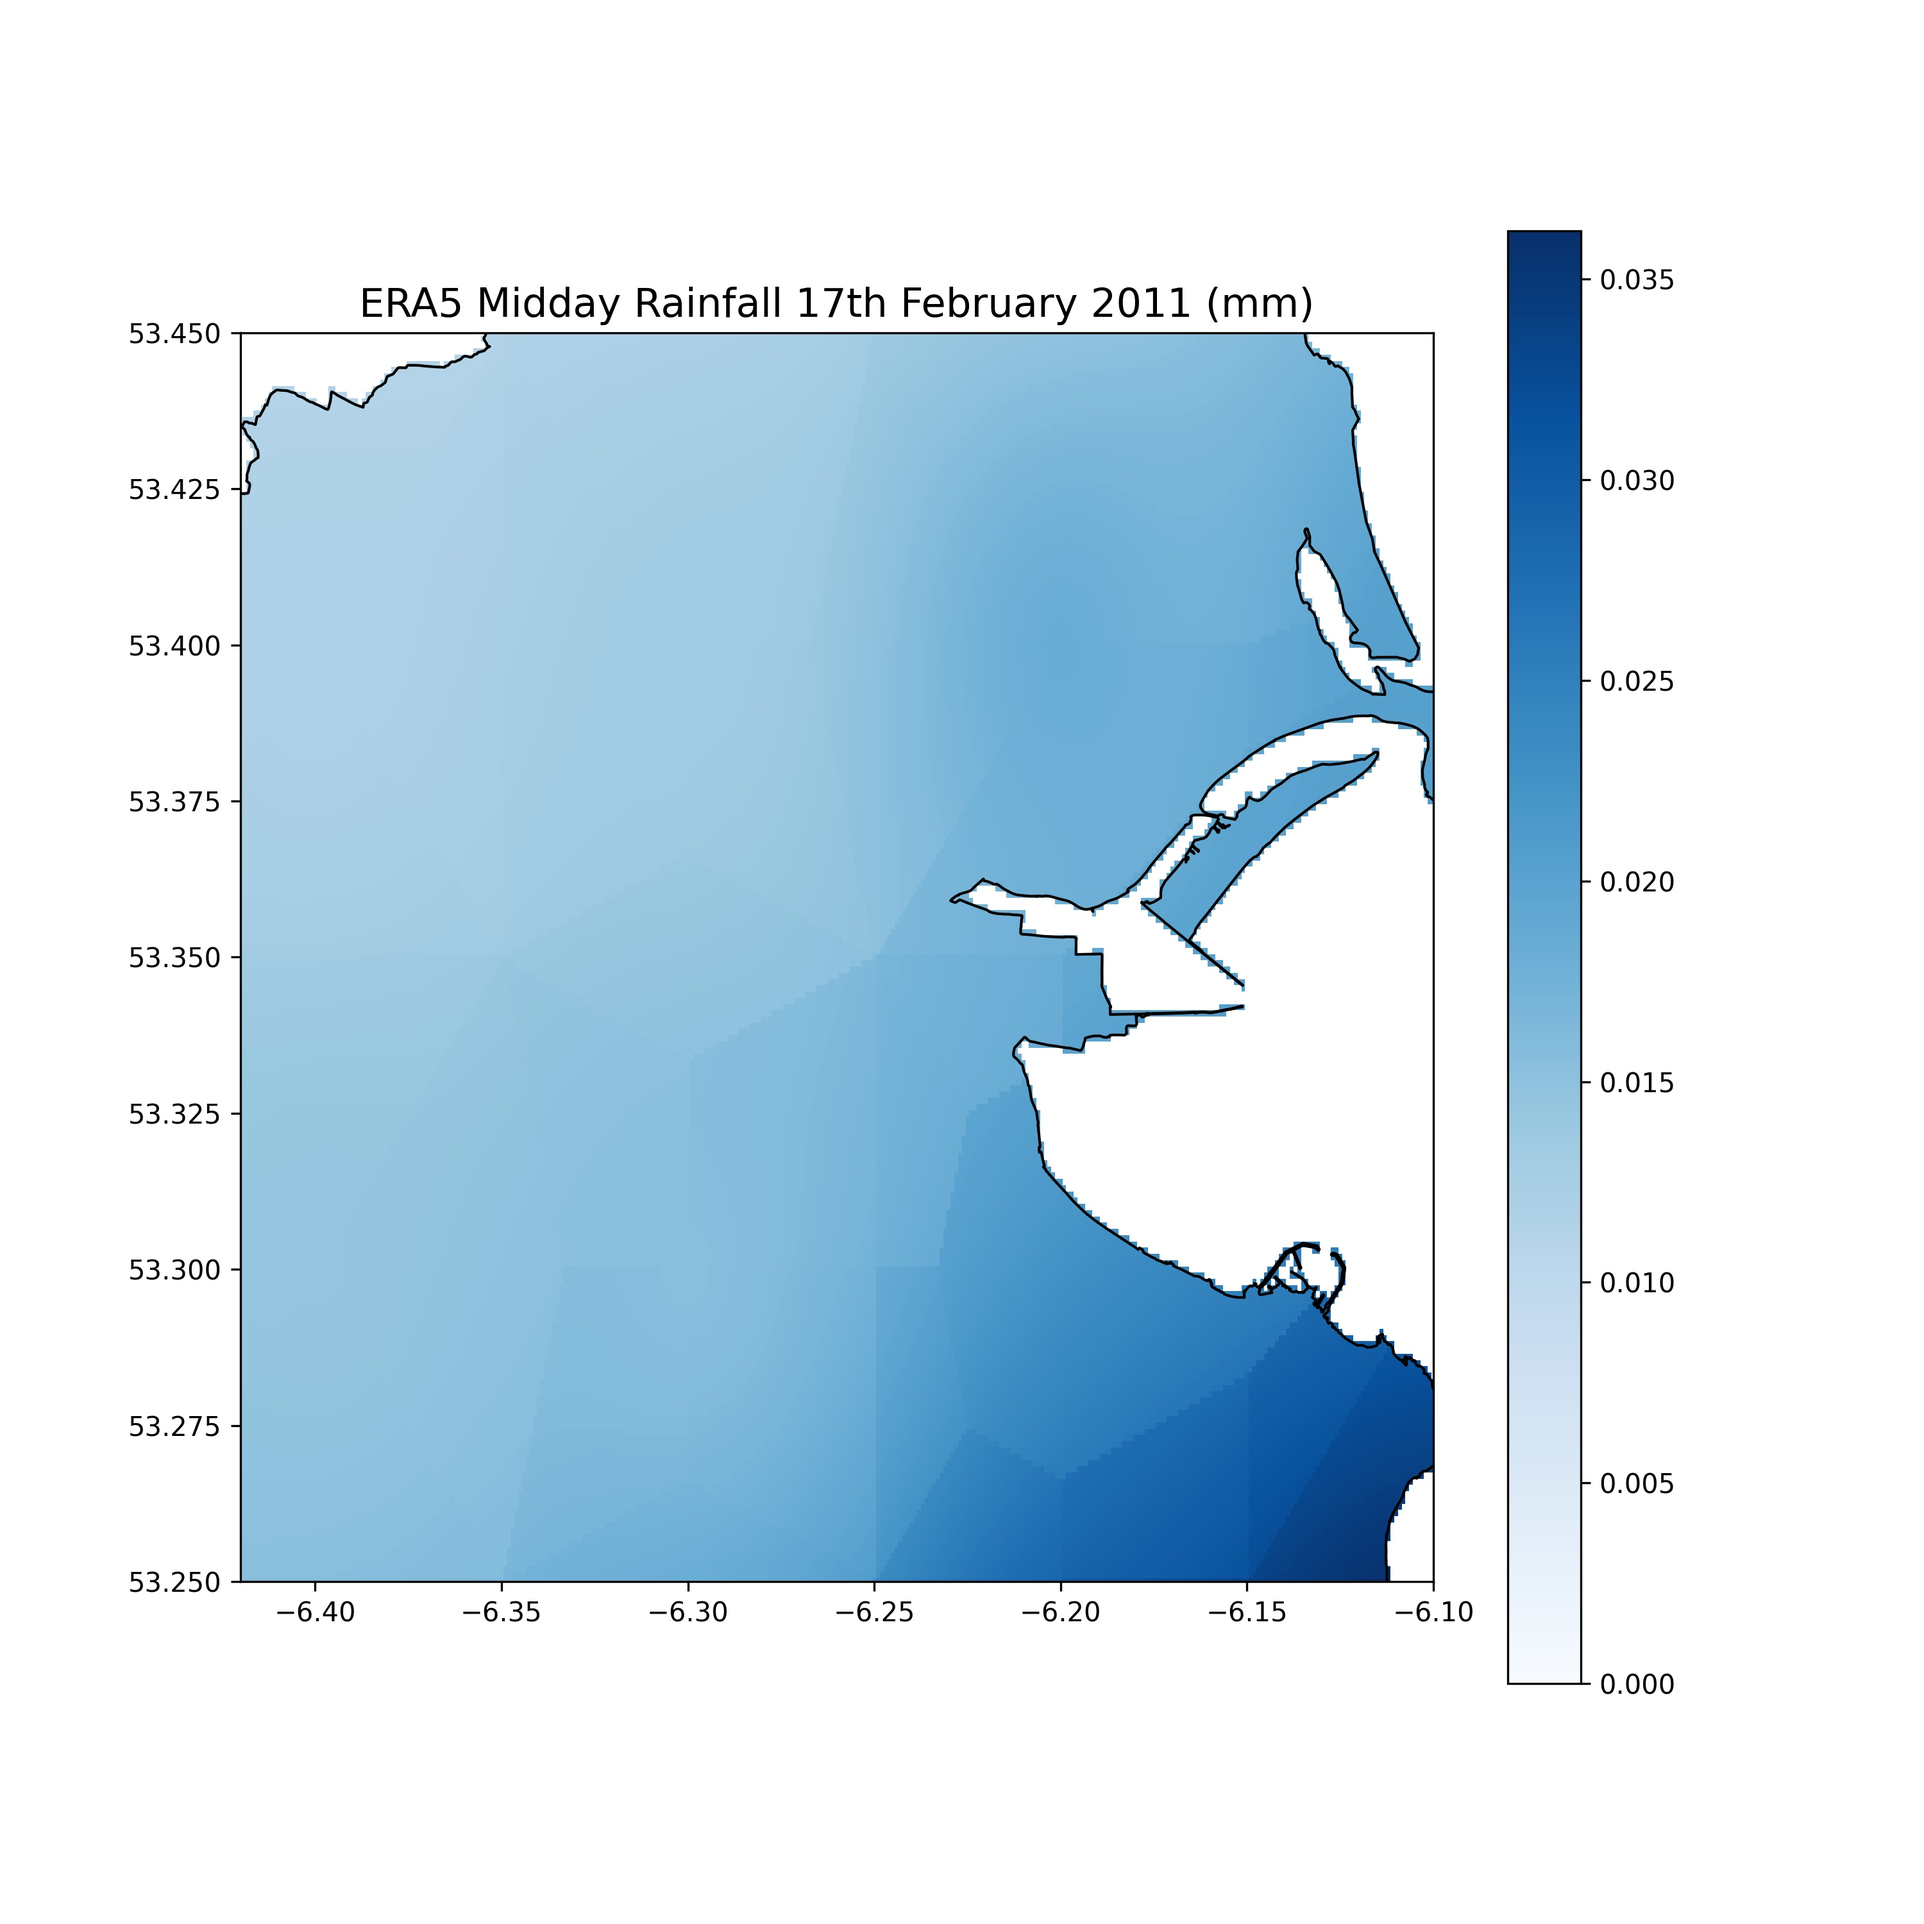
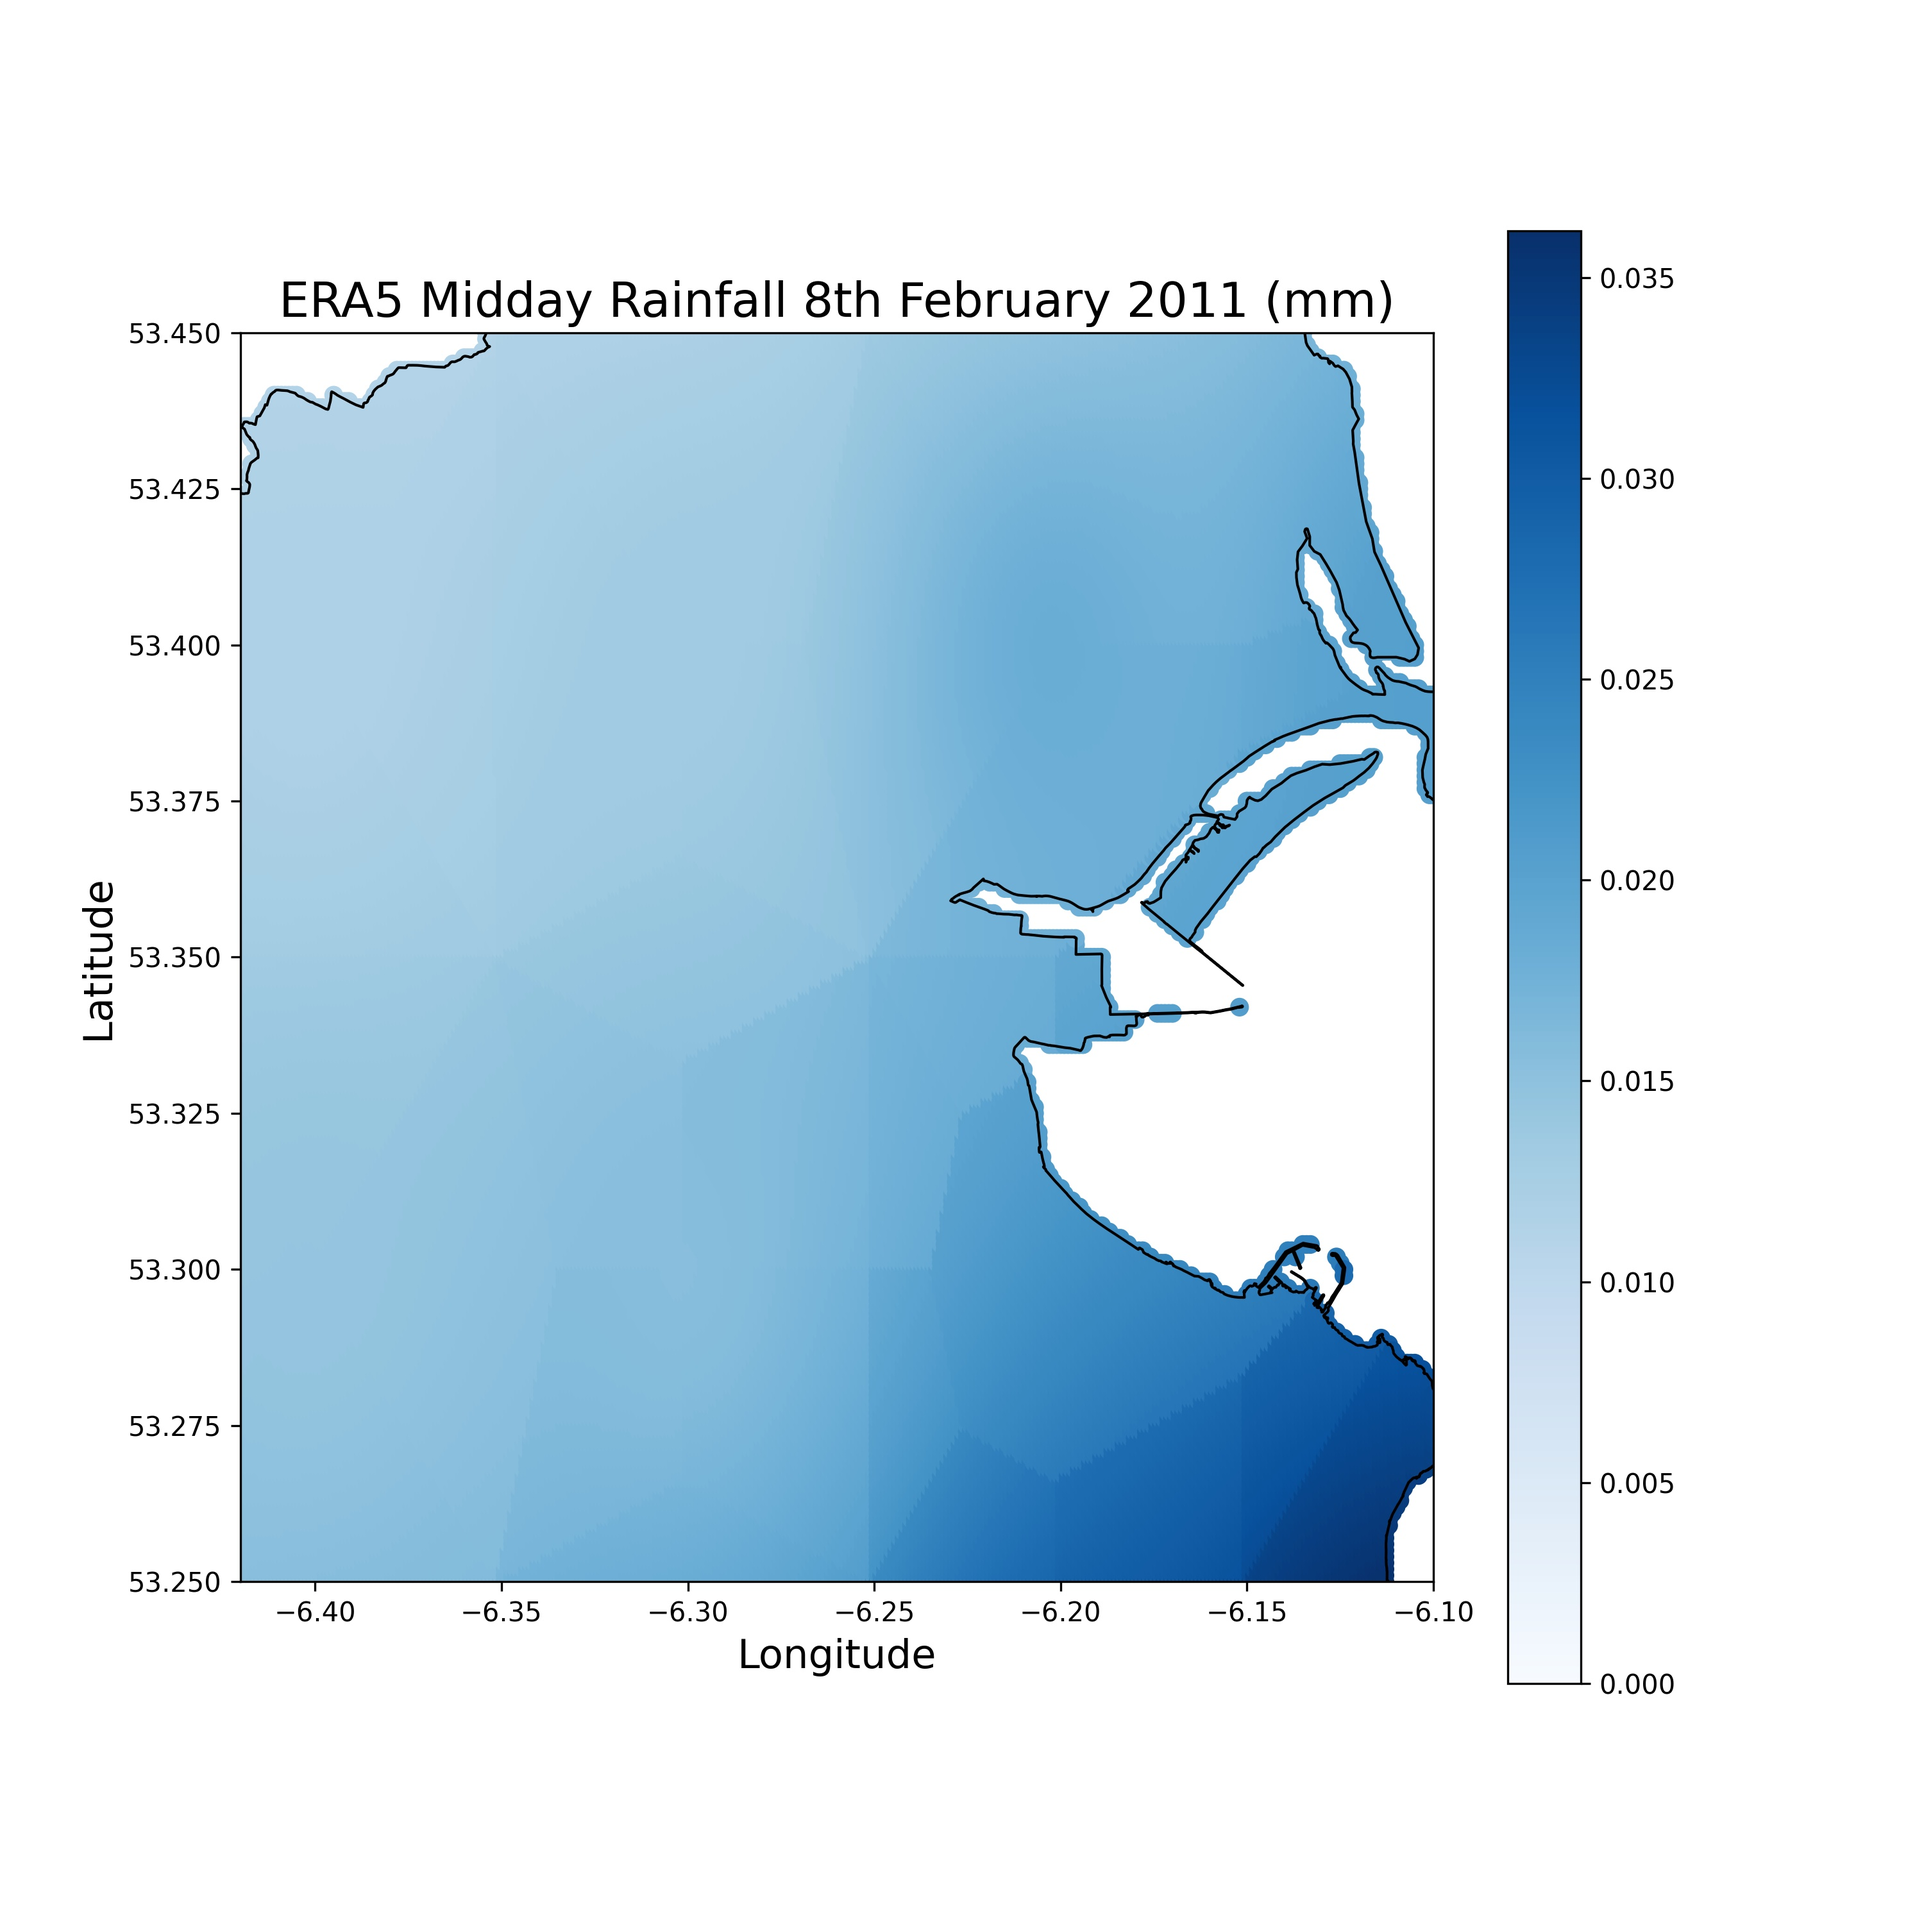
made some plots, created code to generate additional elevation points that isn't working correctly

diff --git a/src/generate_instance/simple_instance.py b/src/generate_instance/simple_instance.py
@@ -19,17 +19,26 @@ import src.generate_tsplib.generate_tsplib as tsp
 # In[1]
 
 
+# Extra Elevation points
+ds1 = pd.read_pickle("data/elevation_matrices/coords1.pkl")
+ds2 = pd.read_pickle("data/elevation_matrices/coords2.pkl")
+ds3 = pd.read_pickle("data/elevation_matrices/coords3.pkl")
+ds1 = ds1.append(ds2)
+ds1 = ds1.append(ds2)
+ds1.columns = ["Long", "Lat", "Elev"]
+
 # Scat site testing data
 ds = pd.read_pickle("data/scats_sites_with_elev.pkl")
 ds = ds.loc[:, "Lat":"Elev"]
+ds = ds.append(ds1)
 
 # Clean data up a little
 ds = ds.drop(ds[ds['Long']==0].index)
 ds = ds.drop(ds[ds['Lat']==0].index)
-ds = ds.drop(ds[ds['Long']>-6.08442].index)
-ds = ds.drop(ds[ds['Long']<-6.47592].index)
-ds = ds.drop(ds[ds['Lat']>53.45976].index)
-ds = ds.drop(ds[ds['Lat']<53.22938].index)
+ds = ds.drop(ds[ds['Long']>-6].index)
+ds = ds.drop(ds[ds['Long']<-6.5].index)
+ds = ds.drop(ds[ds['Lat']>53.5].index)
+ds = ds.drop(ds[ds['Lat']<53.1].index)
 ds = ds[["Long", "Lat", "Elev"]]
 
 # round values to grid values
@@ -43,7 +52,7 @@ lat_b = (53.1, 53.5)
 # Step size
 h = 0.0001
 
-n, depot, traffic, rain = "1000", "centre", "weekday_offpeak", "heavy"
+domain, n, depot, traffic, rain = "dublin_centre", "20", "centre", "weekday_offpeak", "mild"
 
 def create_instance(domain, n, depot, traffic, rain):
 
@@ -84,7 +93,7 @@ def create_instance(domain, n, depot, traffic, rain):
     dublin.read_weather(filename="data/weather_matrices/{}.pkl".format(rain))
     dublin.compute_weather_correction()
     dublin.read_skin_temp(filename="data/weather_matrices/Skin_temperature_averages.pkl")
-
+    np.where(dublin.x == 53.3488)
     dublin.compute_cost(method="copert with meet")
     np.set_printoptions(suppress=True)
 
@@ -182,8 +191,6 @@ line_geom = dublin.geom_matrix.values.flatten()
 costs = dublin.cost_matrix.values.flatten()[dublin.cost_matrix.values.flatten() != 0]
 line_geoms = dublin.geom_matrix.values.flatten()[dublin.geom_matrix.values.flatten() != 0]
 
-costs.shape
-
 dublin.stop_percentages_matrix.values.flatten()[dublin.stop_percentages_matrix.values.flatten() != 0].shape
 line_gdf = gpd.GeoDataFrame(data=costs, geometry=line_geoms, crs={'init' : 'epsg:4326'})
 
@@ -191,14 +198,22 @@ line_gdf = gpd.GeoDataFrame(data=costs, geometry=line_geoms, crs={'init' : 'epsg
 # In[1]
 
 
+import matplotlib.colors as colors
+def truncate_colormap(cmap, minval=0.0, maxval=1.0, n=100):
+    new_cmap = colors.LinearSegmentedColormap.from_list('trunc({n},{a:.2f},{b:.2f})'.format(n=cmap.name, a=minval, b=maxval), cmap(np.linspace(minval, maxval, n)))
+    return new_cmap
+
+cmap = plt.get_cmap('terrain')
+new_cmap = truncate_colormap(cmap, 0.2, 1)
+
 fig, ax = plt.subplots(1, 1, figsize=(10,10))
 
 # Get max and min elevations for plotting elevations colourmap
 node_elevs = df['Elevation'].values
 
 # Plot elevations
-gdf.plot(ax=ax, column='Elevation', cmap='terrain', vmin = min(node_elevs), vmax = max(node_elevs),
-         marker=',', markersize=15, legend=True, alpha=0.7, zorder=1)
+gdf.plot(ax=ax, column='Elevation', cmap=new_cmap, norm=colors.PowerNorm(gamma=0.6),
+         marker=',', markersize=15, legend=True, legend_kwds={"label":"Elevation (m above sea-level)"}, alpha=0.7, zorder=1)
 
 # Plot rainfall
 #dublin.weather.plot(ax=ax, column='Precipitation', cmap='Blues', legend=True,
@@ -212,24 +227,28 @@ gdf.plot(ax=ax, column='Elevation', cmap='terrain', vmin = min(node_elevs), vmax
 dub_df.plot(ax=ax, color="none", edgecolor="k", alpha=0.5, zorder=2)
 
 # Plot vertices
-gdf_v.plot(ax=ax, color="k", marker=',', markersize=5, zorder=5)
+#gdf_v.plot(ax=ax, color="k", alpha=0.3, marker=',', markersize=5, zorder=5)
 
 # Plot edges
-line_gdf.plot(ax=ax, alpha=1, color="k", linewidth=1, zorder=6)
+# line_gdf.plot(ax=ax, alpha=1, color="k", linewidth=0.4, zorder=6)
 
 # Can label vertices of points
 #for x, y, label in zip(gdf_v.geometry.x, gdf_v.geometry.y, gdf_v.is_vertice):
     #ax.annotate(label, xy=(x, y), xytext=(3, 3), textcoords="offset points")
 
 # Bounds for limits
-lon_b = (-6.42, -6.10)
-lat_b = (53.25, 53.45)
+lon_bb = (-6.42, -6.10)
+lat_bb = (53.25, 53.45)
 
 #lon_b = (-6.33, -6.19)
 #lat_b = (53.315, 53.37)
 
 # Plot
-plt.xlim(lon_b)
-plt.ylim(lat_b)
-plt.title("Elevation Map of Dublin (m above sea-level)")
+plt.xlim(lon_bb)
+plt.ylim(lat_bb)
+
+plt.xlabel("Longitude", fontsize=15)
+plt.ylabel("Latitude", fontsize=15)
+plt.title("Dublin Topography (m above sea-level)", size=20)
+plt.savefig("data/figures/Dublin_elevation.jpeg", dpi=300)
 plt.show()

diff --git a/src/elevation_call/get_elevs.py b/src/elevation_call/get_elevs.py
@@ -68,7 +68,30 @@ for domain in domains:
                 read_elev_res(result, final)
 
 
-df = pd.read_pickle(final)
-import numpy as np
+# In[1]
 
-np.round(df.to_numpy()[:, [1, 0, 2]], 4)
+
+import numpy as np
+# Making more elevation points
+lon_b = (-6.421, -6.082)
+lat_b = (53.151, 53.342)
+h = 0.01
+
+x, y = np.arange(lon_b[0], lon_b[1], h), np.arange(lat_b[0], lat_b[1], h)
+x, y = np.round(x, 4), np.round(y, 4)
+yy, xx = np.meshgrid(y, x)
+coords = np.append(xx.reshape(-1,1), yy.reshape(-1,1), axis=1)
+coords.shape
+
+df = pd.DataFrame(coords, columns=["latitude", "longitude"])
+df.to_pickle("data/elevation_api_queries/coords.pkl")
+
+create_elev_query_file("data/elevation_api_queries/coords.pkl", "data/elevation_api_queries/coords_query.json")
+
+query = "data/elevation_api_queries/coords_query.json"
+out = "data/elevation_api_results/coords_results.json"
+
+os.system('curl -X POST https://api.open-elevation.com/api/v1/lookup -H\
+          "Content-Type:application/json" -d "@{}" --output {}'.format(query, out))
+
+read_elev_res(out, "data/elevation_matrices/coords1.pkl")

diff --git a/src/weather_call/weather_grid.py b/src/weather_call/weather_grid.py
@@ -41,7 +41,7 @@ gdf = pd.DataFrame(data=names)
 
 time_idx = df1['time'].iloc[1352400]
 gdf = df1[df1['time'] == time_idx]
-
+gdf
 number = 1350000
 
 for _ in range(100):
@@ -201,6 +201,10 @@ lat_b = (53.25, 53.45)
 
 plt.xlim(lon_b)
 plt.ylim(lat_b)
-plt.title("ERA5 Midday Rainfall 17th February 2011 (mm)", size=15)
-# plt.savefig("data/figures/Dublin_rainfall_fig.jpeg", dpi=300)
+
+plt.xlabel("Longitude", fontsize=15)
+plt.ylabel("Latitude", fontsize=15)
+
+plt.title("ERA5 Midday Rainfall 8th February 2011 (mm)", size=18)
+plt.savefig("data/figures/Dublin_rainfall_fig.jpeg", dpi=300)
 plt.show()

diff --git a/src/generate_grid/grid.py b/src/generate_grid/grid.py
@@ -749,7 +749,7 @@ class Grid():
 
                         net_velocity.append(avg_velocity)
                         net_stop.append(stop)
-                        
+
                 else:
                     net_velocity.append(0)
                     net_stop.append(0)
